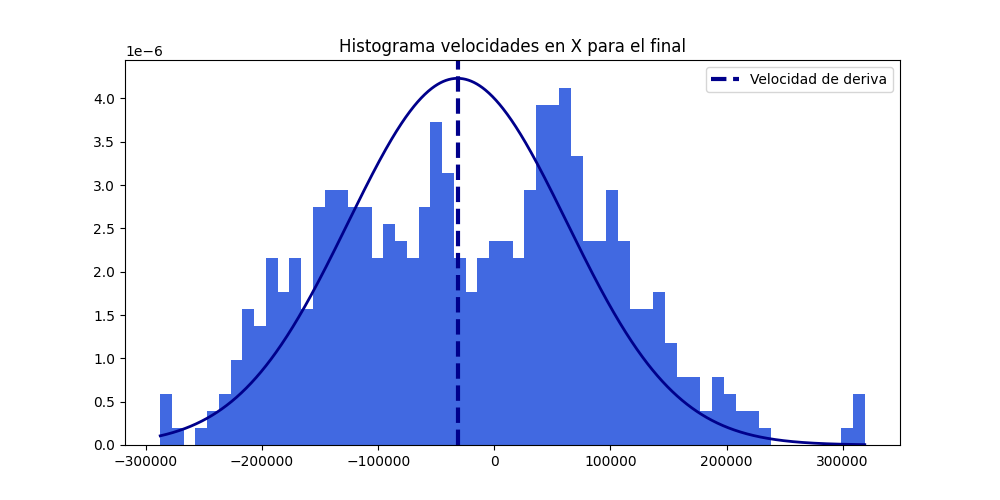
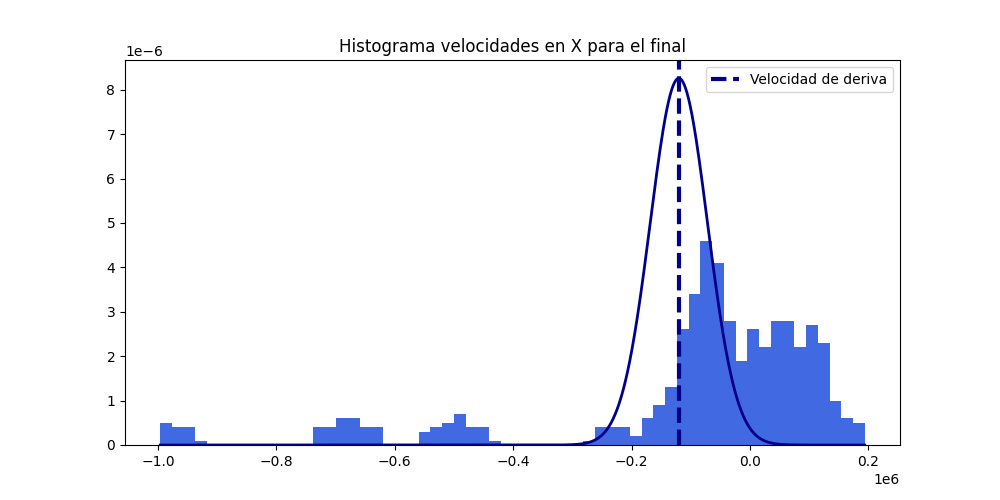
actualizacion

diff --git a/MODELO_DRUDE_V3.py b/MODELO_DRUDE_V3.py
@@ -14,11 +14,11 @@ Se utilizaron unidades de picometros para la distancia, para que la distancia en
 tuvierta un numero muy grande, por lo que se utilizó 1 m = 1e12 pm
 """
 k_b=constants.Boltzmann #Constante de boltzmann en (Kg pm^2/ps^2)/K
-T=273.15+20
+T=77.
 m_e=constants.electron_mass
 velocidad_cuadratica_promedio=np.sqrt(2*k_b * T / m_e)
 def random_vel2(t=0,vd=0):
-        if t==0: return [np.random.normal(vd, velocidad_cuadratica_promedio),np.random.normal(vd, velocidad_cuadratica_promedio)]
+        if t==0: return [np.random.normal(vd, velocidad_cuadratica_promedio),np.random.normal(0,velocidad_cuadratica_promedio)]
         if t!=0: return velocidad_cuadratica_promedio
 def random_vel(t=0,vd=0):
         angulo=random.uniform(0,2*np.pi)
@@ -38,6 +38,7 @@ class particula:
         self.vx = []
         self.vy = []
         self.v2 = []
+        self.v2raiz = []
         self.q=carga
         self.color=color
         self.movimiento=movimiento
@@ -49,6 +50,8 @@ class particula:
         self.vx.append(self.v[0])
         self.vy.append(self.v[1])
         self.v2.append(self.v[0]*self.v[0]+self.v[1]*self.v[1])
+        self.v2raiz.append((self.v[0]*self.v[0]+self.v[1]*self.v[1])*.5)
+
         if self.movimiento==True:
             self.r=self.r+self.v*dt
         
@@ -148,9 +151,9 @@ for i in range(N):
 #TIEMPO REAL DE SIMULACION
 # El dt es dos ordenes de magnitud mas pequeño que el tiempo en el que una particula atravieza todo el sistema
 
-dt=(2*limx/random_vel2(2))/100 #  0.00028310447443648343
+dt=(2*limx/random_vel2(2))/200 #  0.00028310447443648343
 
-tiempo_total =dt*10000*3  # Tiempo total del movimiento (segundos)
+tiempo_total =dt*1000  # Tiempo total del movimiento (segundos)
 
 num_puntos = int(tiempo_total/dt)  # Número de puntos en el dataframe  10 000
 #dt=tiempo_total/num_puntos
@@ -223,6 +226,7 @@ prom_v2=[]
 histogramay=[]
 histogramax=[]
 histogramaxfinal=[]
+histogramav2raiz=[]
 for i in particulas:
     if i.movimiento==True and len(i.tau)>1:
         prom_tau.append(np.mean(i.tau[1:]))
@@ -232,6 +236,7 @@ for i in particulas:
         histogramay+=i.vy
         histogramax+=i.vx
         histogramaxfinal+=i.vx[-15:-1]
+        histogramav2raiz+=(i.v2raiz)
 
 #PROMEDIO DE VELOCIDADES Y VELOCIDADES CUADRATICAS
 promvx,promvy=np.mean(prom_vx),np.mean(prom_vy)
@@ -271,16 +276,33 @@ plt.hist(histogramaxfinal, bins=60, density=True,color="royalblue")
 plt.legend()
 plt.savefig("Histograma_Vel_X_TODO_T")
 
+
+# HISTOGRAMA PARA LA VELOCIDAD CUADRATICA
+plt.figure(figsize=(10, 5))
+plt.title('Histograma Velocidad cuadratica')
+    #Agrega una linea vertical en la velocidad de deriva
+plt.axvline(x=promvx, color='darkblue', linestyle='--', linewidth=3, label='Velocidad de deriva')
+VX= np.linspace( min(histogramav2raiz), max(histogramav2raiz), 1000)
+DATAVX= ((norm.pdf(VX, promvx, velocidad_cuadratica_promedio)**2)+(norm.pdf(VX, 0, velocidad_cuadratica_promedio)**2))**.5
+plt.plot(VX, DATAVX, 'darkblue', linewidth=2)
+plt.hist(histogramav2raiz, bins=60, density=True,color="royalblue")
+plt.legend()
+plt.savefig("Histograma_velocidad_cuadratica")
+
+
+
 #Densidad de electrones
-densidad_e=N/(2*limx*2*limy)
-print(f"La densidad de electrones en el sistema es {densidad_e} electrones por picometro cuadrado")
-print(f"El campo electrico fue de {E[0]} V/pm en dirección x")
-print(f"El tiempo de relajación promedio tau fue {np.mean(prom_tau)} segundos")
+densidad_e=(N/(2*limx*2*limy))*10**-24
+#campo electrico en voltios / metro:
+E=E*10**-12
+print(f"La densidad de electrones en el sistema es {densidad_e} electrones por metro cuadrado")
+print(f"El campo electrico fue de {E[0]} V/m en dirección x")
+print(f"El tiempo de relajación promedio tau fue {np.mean(prom_tau)} pico segundos")
 print(f"El tiempo de relajación promedio a partir de la velocidad de deriva y el campo electrico {-promvx*m_e/(E*constants.elementary_charge)} segundos")
-print(f"La conductividad del material a partir del tau fue de {N/(2*limx*2*limy)*constants.elementary_charge**2*np.mean(prom_tau)/constants.electron_mass}")
-print(f"La conductividad del material a partir de la velocidad de deriva fue fue de {N/(2*limx*2*limy)*constants.elementary_charge**2*np.mean(prom_tau)/constants.electron_mass}")
-print(f"La conductividad del material a partir J/E 1 {densidad_e*constants.elementary_charge*promvx/E}")
-print(f"La conductividad del material a partir J/E 2 {contador/(2*limx*E)}")
+print(f"La conductividad superficial del material a partir del tau fue de {N/(2*limx*2*limy)*constants.elementary_charge**2*np.mean(prom_tau)/constants.electron_mass}")
+print(f"La conductividad superficial del material a partir de la velocidad de deriva fue fue de {N/(2*limx*2*limy)*constants.elementary_charge**2*np.mean(prom_tau)/constants.electron_mass}")
+print(f"La conductividad superficial del material a partir J/E 1 {densidad_e*constants.elementary_charge*promvx/E}")
+print(f"La conductividad  superficial del material a partir J/E 2 {contador/(2*limx*E)}")
 print(f"El promedio de velocidades fue {velprom} m/s")
 print(f"En promedio la velocidad de deriva fue {promvx} m/s")
 print(f"La velocidad cuadratica media fue de {promv2} m/s y deberia ser {random_vel2(2)} m/s, la discrepancia porcentual es de {np.abs(promv2-random_vel2(2,promvx))/random_vel2(2,promvx)*100}%")
